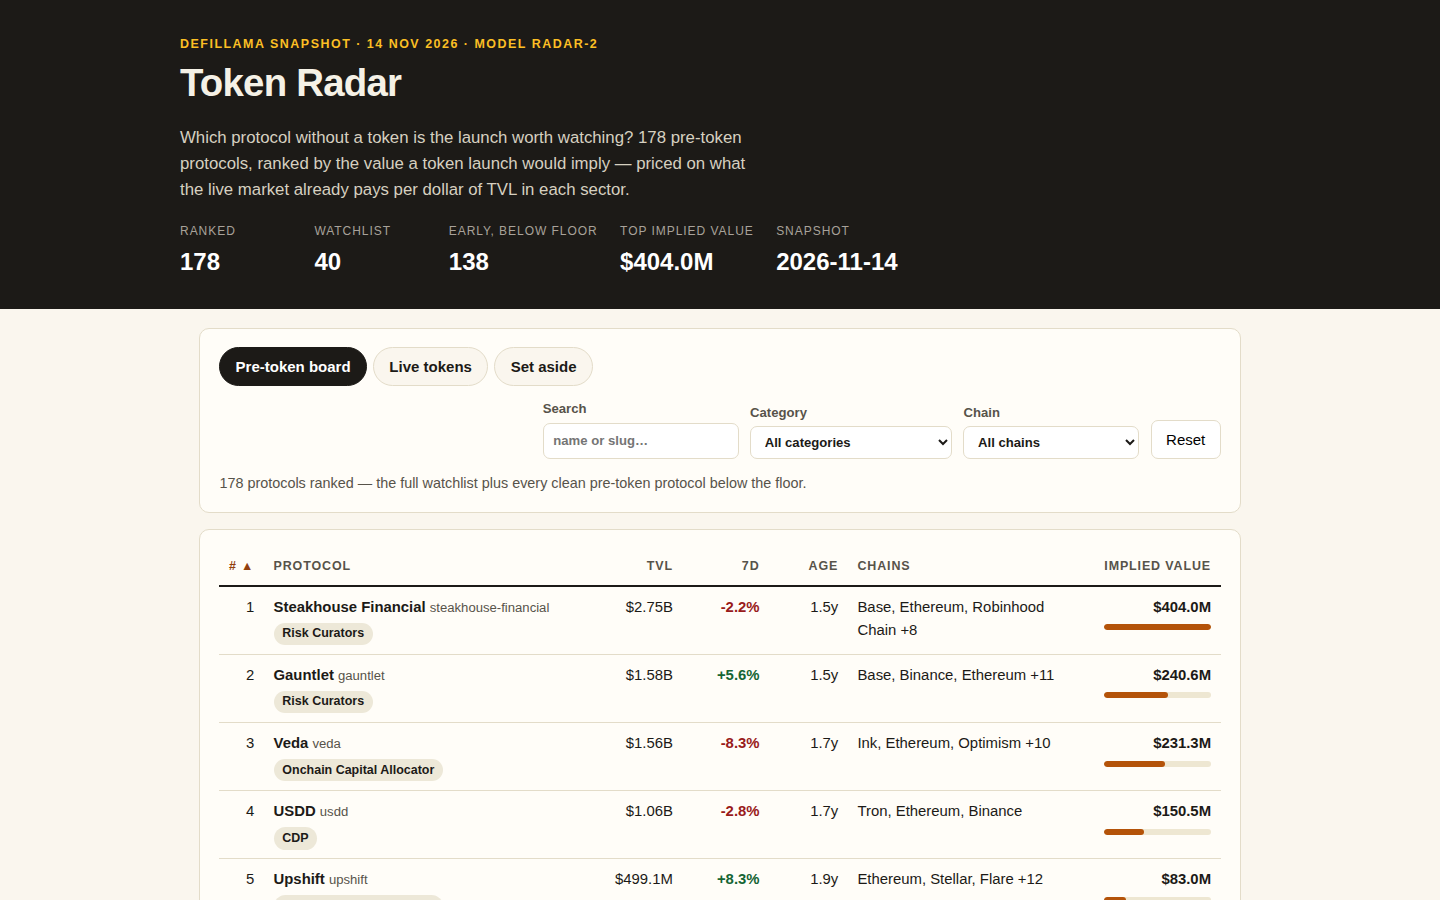
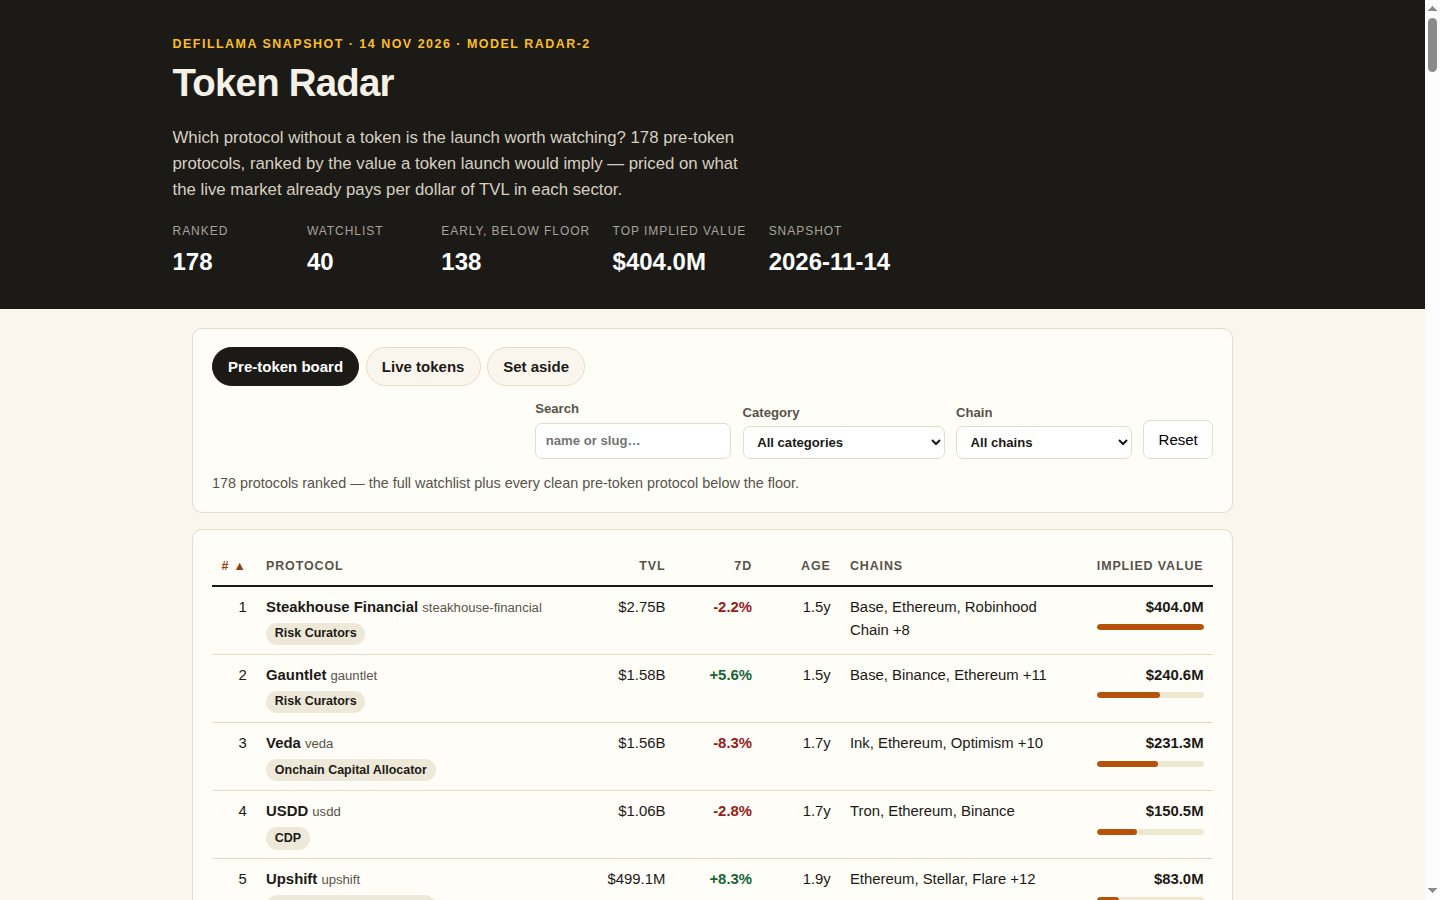
Polish: README badges, fix Risk Curators claim, add comparables and What to watch to detail view

diff --git a/dashboard/app.js b/dashboard/app.js
@@ -182,6 +182,28 @@ function openDetail(slug, push = true) {
   // must equal the implied value the board carries.
   const recomputed = Math.max(1, Math.round(r.tvl_usd * r.base_multiple * r.growth_multiplier * r.breadth_multiplier * r.maturity_multiplier));
   const agree = recomputed === r.implied_value_usd;
+  // Where the sector multiple comes from: the calibration row for this
+  // category, naming the live protocols it is the median of.
+  const calib = D.calibration.find((c) => c.category === (r.category ?? 'Uncategorized'));
+  let multipleNote = '';
+  if (calib) {
+    const names = calib.examples.map(esc).join(', ');
+    multipleNote = calib.fallback
+      ? `<p>The sector multiple ${r.base_multiple.toFixed(4)} is the overall market median: ${esc(r.category ?? 'Uncategorized')} has only ${calib.n} live protocol${calib.n === 1 ? '' : 's'} with a market cap${names ? ` (${names})` : ''}, below the five needed for a multiple of its own.</p>`
+      : `<p>The sector multiple ${r.base_multiple.toFixed(4)} is the median market-cap / TVL of ${calib.n} live ${esc(r.category ?? 'Uncategorized')} protocols, including ${names}.</p>`;
+  } else {
+    multipleNote = `<p>The sector multiple ${r.base_multiple.toFixed(4)} is the overall market median: no live ${esc(r.category ?? 'Uncategorized')} protocol has a market cap to calibrate against.</p>`;
+  }
+  // What could be wrong: honest flags from the row's own figures, so the
+  // implied value is read with its uncertainty attached.
+  const flags = [];
+  if (!calib || calib.fallback) flags.push('The multiple is the market-wide median, not a sector multiple, so the implied value is less certain than for a category with its own.');
+  if (r.change_7d !== null && r.change_7d < 0) flags.push(`TVL fell ${Math.abs(r.change_7d).toFixed(1)}% in the last 7 days — the protocol is shrinking, not growing.`);
+  if (r.change_7d === null) flags.push('No 7-day TVL figure, so growth is assumed flat.');
+  if (r.age_days !== null && r.age_days < 180) flags.push(`Listed only ${r.age_days} days ago — a short record, so the maturity factor is still low.`);
+  const watch = flags.length
+    ? `<h3>What to watch</h3><ul class="steps">${flags.map((f) => `<li>${esc(f)}</li>`).join('')}</ul>`
+    : '';
   $('detail-body').innerHTML = `
     <p class="kicker" style="color:var(--amber-deep)">Rank #${r.rank} · ${esc(r.category ?? 'Uncategorized')} · ${r.chains.length} chain${r.chains.length === 1 ? '' : 's'}</p>
     <h2>${esc(r.name)}</h2>
@@ -196,6 +218,8 @@ function openDetail(slug, push = true) {
       <tr class="total"><td>Implied value</td><td>${moneyFull(r.implied_value_usd)}</td></tr>
     </table>
     <p class="fine">${agree ? 'The page recomputes the product above and it matches the board.' : 'Note: the recomputed product differs from the board — see board.json.'}</p>
+    ${multipleNote}
+    ${watch}
     <h3>Farm plan — eight steps</h3>
     <ol class="steps">${r.farm_steps.map((s) => `<li>${esc(s)}</li>`).join('')}</ol>
     <p class="fine">No token is confirmed for this protocol. The plan is a way to be positioned if one comes, not a promise that one will.</p>

diff --git a/lib/model.ts b/lib/model.ts
@@ -153,6 +153,8 @@ export interface CalibrationRow {
   n: number;
   multiple: number;
   fallback: boolean;
+  /** Up to three live protocols in the category, by market cap, so the detail view can name where the multiple comes from. */
+  examples: string[];
 }
 
 export interface RadarData {
@@ -235,20 +237,30 @@ export function calibrate(snapshot: Snapshot, model: ModelConstants = MODEL): { 
   const overall = median(live.map((p) => p.mcap_usd! / p.tvl_usd));
   const byCategory = new Map<string, number>();
   const perCat = new Map<string, number[]>();
+  const perCatNames = new Map<string, { name: string; mcap: number; slug: string }[]>();
   for (const p of live) {
     const cat = p.category ?? 'Uncategorized';
     const list = perCat.get(cat) ?? [];
     list.push(p.mcap_usd! / p.tvl_usd);
     perCat.set(cat, list);
+    const names = perCatNames.get(cat) ?? [];
+    names.push({ name: p.name, mcap: p.mcap_usd!, slug: p.slug });
+    perCatNames.set(cat, names);
   }
+  /** The category's live protocols by market cap, most valuable first, so the multiple can be traced to names. */
+  const examplesFor = (cat: string): string[] =>
+    [...(perCatNames.get(cat) ?? [])]
+      .sort((a, b) => b.mcap - a.mcap || (a.slug < b.slug ? -1 : a.slug > b.slug ? 1 : 0))
+      .slice(0, 3)
+      .map((e) => e.name);
   const table: CalibrationRow[] = [];
   for (const [cat, ratios] of [...perCat.entries()].sort((a, b) => b[1].length - a[1].length)) {
     if (ratios.length >= model.calibration_min_n) {
       const multiple = median(ratios);
       byCategory.set(cat, multiple);
-      table.push({ category: cat, n: ratios.length, multiple: round4(multiple), fallback: false });
+      table.push({ category: cat, n: ratios.length, multiple: round4(multiple), fallback: false, examples: examplesFor(cat) });
     } else {
-      table.push({ category: cat, n: ratios.length, multiple: round4(overall), fallback: true });
+      table.push({ category: cat, n: ratios.length, multiple: round4(overall), fallback: true, examples: examplesFor(cat) });
     }
   }
   return { overall, byCategory, table };

diff --git a/dashboard/index.html b/dashboard/index.html
@@ -99,7 +99,7 @@
         <tr><td>All other categories</td><td class="num">—</td><td class="num">0.1689 †</td></tr>
       </tbody>
     </table>
-    <p class="fine">* Fewer than five live comparables, so this category uses the overall median 0.1689 in the model; the 1.2200 shown is the raw median of its four protocols. † The overall live median, used wherever a category has fewer than five live protocols with a market cap — including Risk Curators, the watchlist's largest category, which has no live comparable at all.</p>
+    <p class="fine">* Fewer than five live comparables, so this category uses the overall median 0.1689 in the model; the 1.2205 shown is the raw median of its four protocols (Across, Hyperlane, Symbiosis, Synapse). † The overall live median, used wherever a category has fewer than five live protocols with a market cap — including Risk Curators, the watchlist's largest category, which has only one live protocol (Api3), below the five needed for its own multiple.</p>
     <h3>What is ranked, and what is not</h3>
     <ul>
       <li><strong>Ranked (178):</strong> all 40 watchlist protocols, plus every pre-token protocol below the $50M floor that passes the watchlist's own exclusion rules — no CEX, Bridge, Canonical Bridge, Liquid Staking, Liquid Restaking or Restaked BTC category; no versioned name; no whole word <em>wrapped</em>, <em>staked</em> or <em>staking</em>; no exchange-prefixed name.</li>

diff --git a/README.md b/README.md
@@ -1,7 +1,12 @@
 # Token Radar
 
+[![make.fun](https://make.fun/badge/token-radar-01.svg)](https://make.fun/bounty/token-radar-01)
+[![rank](https://make.fun/badge/token-radar-01/fearxfx22/token-radar-01/rank.svg)](https://make.fun/bounty/token-radar-01)
+[![reward](https://make.fun/badge/token-radar-01/fearxfx22/token-radar-01/reward.svg)](https://make.fun/bounty/token-radar-01)
+
 An entry for make.fun **token-radar-01** — "Build the best token launch radar"
 ($1,325; 1st $1,000; entries close 2026-12-14 17:10 WIB).
+See the bounty: https://make.fun/bounty/token-radar-01
 
 ## What it is
 
@@ -53,20 +58,29 @@ Writes `board.json`, `data.js`, `dashboard/`, `screenshots/` and
 - `lib/model.ts` — the value model, the farm plans, the board gate check.
 - `vendor/makefun-board.ts` — make.fun's dossier library, copied verbatim
   from the kit (a copy elsewhere counts as lines written).
-- `dashboard/` — `index.html`, `app.css`, `app.js` (25,049 bytes total —
+- `dashboard/` — `index.html`, `app.css`, `app.js` (27,113 bytes total —
   the whole source fits the dossier's 65,536-byte text cap).
 - `screenshots/` — `1-board.png`, `2-detail.png`, `3-filtered.png`
   (1440×900, taken with headless Chrome from the built dashboard).
 - `PLAN.md` — the ranking methodology and farm-plan design.
 - `out/` — the last verified build (board, dossier, screenshots).
 
-## Verified 2026-11-15
+## Verified 2026-11-15 (polished, re-submit pending)
 
 - Board: 178 rows, all 40 watchlist slugs covered, ranks 1..178, implied
   values non-increasing ($403,989,561 → $199,345), every row carries an
   eight-step farm plan (20–600 chars per step). Gate check: clean.
+  The ranking model (radar-2) and board.json are unchanged from the
+  submitted entry — the polish only fixed the README badges, a footnote,
+  and the detail view.
+- Detail view: now names the live protocols each sector multiple is the
+  median of (e.g. Risk Curators: Api3, the only live one), and adds a
+  "What to watch" note per protocol (fallback multiple, shrinking TVL,
+  short record). Fixed a real error: the methodology claimed Risk
+  Curators had no live comparable at all — it has one (Api3).
 - Dossier: rebuilds byte-identical from the output directory; text
-  25,316 bytes with no cut line — the judge reads the whole source.
+  27,380 bytes with no cut line — the judge reads the whole source.
+  Dashboard source 27,113 bytes in 3 files.
 - Determinism: two runs, byte-identical output.
 - Top of the board: Steakhouse Financial $404.0M, Gauntlet $240.6M,
   Veda $231.3M, USDD $150.5M, Upshift $83.0M.
